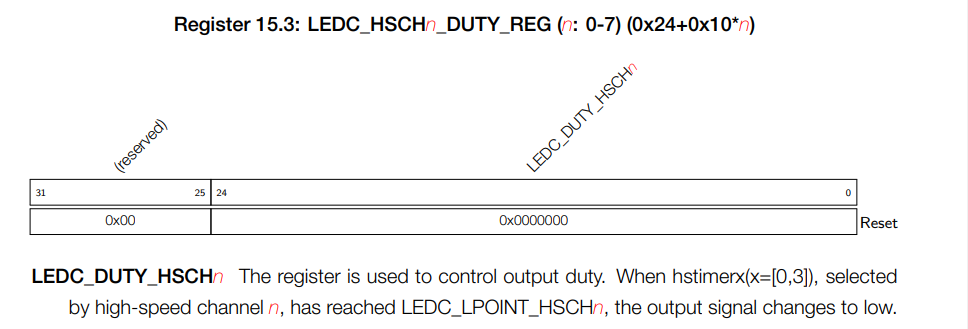
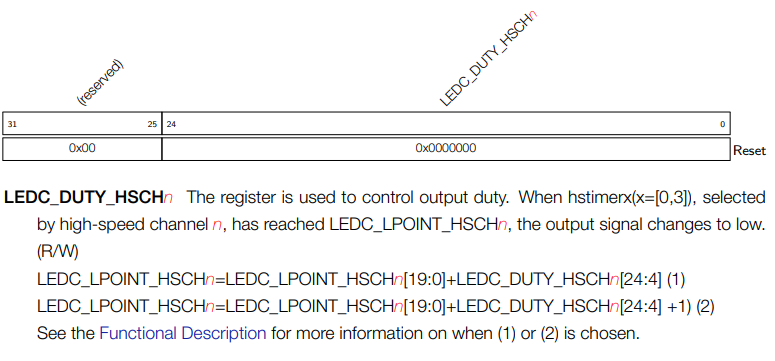
Finalising the content... do I still have time for slides....

Changed region(s): [[0.0, 0.0304, 0.991, 0.9726], [0.1239, 0.152, 0.1548, 0.2432]]

diff --git a/README.md b/README.md
@@ -287,16 +287,147 @@ If software wants to change the behaviour of the PWM, such as the duty cycle, th
 
 Let's play with the PWM hardware to see if we can get it to do stuff without using too many Arduino API calls.
 
+I will however use the following Arduino setup code to connect a hardware PWM channel to a GPIO pin. We could do this with low-level register reads and writes, but we would get bogged down in the details, so for simplicity lets leave the setup Ardunio API based.
+
+```C
+const unsigned int pwmPin = 15;
+const unsigned int freq = 5000;   
+const unsigned int pwmChannel = 0;
+const unsigned int resolution = 8;
+
+void setup() {
+  ledcSetup(pwmChannel, freq, resolution);
+  ledcAttachPin(pwmPin, pwmChannel);
+}
+
+void loop() {
+
+}
+```
+
+This code is doing the following:
+
+* Sets up the PWM Channel 0 ``pwmChannel`` timer so that it has a resolution of 8-bits. This means that the we are telling the timer in the PWM hardware only to use the bottom 8-bits of its counter, remember that the maximum is 20 bits. The counter will count up to 256 and then wrap around.
+* Sets the frequency of the timer to be 5KHz ``freq = 5000;``, this sets up the clock-divider so that the counter counts at this frequency.
+* Attaches the PWM Channel 0 to GPIO pin 15. This configures the internal routing logic in the I/O to connect the output of the PWM to pin 15.
+
+Now let's connect a logic analyser to GPIO pin 15 and see what we get at the output!
+
+![](imgs/pwm_nada.png)
+
+Not a lot. The reason is because we have not set up the thresholds ``lpoint`` and ``hpoint`` that determine at what timer counter value we should set the output high or not. By default the ``lpoint`` and ``hpoint`` are set to 0. If we look at Figure 88 in the TRM (or the cutout above) we can see that this will mean that ``sig_out`` is always low.
+
+What we are going to do now, is change the position of ``lpoint``. If we increase it a bit then the signal will be on a little bit longer. Remember that we have configured out timer to be 8-bits, this means that it is counting up to 256, so if we set the ``lpoint`` to 128 then we will have a 50% duty-cycle as we will be switching halfway through the timer's counting.
+
+To set the registers for the ``lpoint`` threshold we could use the Arduino function ``ledcWrite(pwmChannel, value);`` where value is the position in the 8-bit number that we want to set the threshold at. However, let's try and use the underlying hardware registers instead.
+
+![](imgs/duty_cycle_address.png)
+
+The main register for setting the ``lpoint`` of Channel 0 is ``LEDC_HSHC0_DUTY_REG`` which has the memory-mapped address: ``0x3FF59008``
+
+Looking at the description for this register we get the following:
+
 ![](imgs/pwm_duty_reg.png)
 
-__Configuring the PWM with Arduino code__
+We can see that to set the ``lpoint`` (``LEDC_LPOINT_HSCH0``) we need to write to the ``LEDC_DUTY_HSCH0`` portion of this register, specifically bits ``24 - 4``. The bottom 4 bits are for fine adjustment of the PWM signal, which we wont worry about here. So, to change the LPOINT we can add a write to this register in our code above within the body of ``loop()``.
 
-__Measuring the PWM (Nyquist)__
+```C
+const unsigned int pwmPin = 15;
+const unsigned int freq = 5000;   
+const unsigned int pwmChannel = 0;
+const unsigned int resolution = 8;
 
+void setup() {
+  ledcSetup(pwmChannel, freq, resolution);
+  ledcAttachPin(pwmPin, pwmChannel);
+}
 
-### PWM as a communication channel
+unsigned int * LEDC_HSCH0_DUTY_REG = (unsigned int *)(0x3FF59008);
 
-__Servo motor control__ (Gumball machine?   yes?.... yes)
+void loop() {
+        for(int i=0; i<256; i++) {
+                *LEDC_HSCH0_DUTY_REG = (i << 4); 
 
-## General Timer Hardware
+                delayMicroseconds(100);
+        }
+}
+```
+
+This code will every microsecond increase the value of the ``lpoint`` with the line ``*LEDC_HSCH0_DUTY_REG = (i << 4);``. Notice the shift to the left 4 places as we are using bits ``24 - 4``. 
+
+However, there are a few more registers that we need to set before we can get this to work. 
+
+* We need to set a bit to enable the output
+* We need to set a start bit to load in the change we made to the ``LEDC_HSHC0_DUTY_REG`` above
+
+To do this we need to configure two control registers of the PWM hardware: ``LEDC_HSCH0_CONF0_REG`` and ``LEDC_HSHC0_CONF1_REG``. 
+
+![](imgs/Conf0.png)
+
+To enable the output we must set bit 2 of ``LEDC_HSCH0_CONF0_REG``, we can do this once outside the loop. 
+
+```C
+const unsigned int pwmPin = 15;
+const unsigned int freq = 5000;   
+const unsigned int pwmChannel = 0;
+const unsigned int resolution = 8;
+
+void setup() {
+  ledcSetup(pwmChannel, freq, resolution);
+  ledcAttachPin(pwmPin, pwmChannel);
+}
+
+unsigned int * LEDC_HSCH0_DUTY_REG = (unsigned int *)(0x3FF59008);
+unsigned int * LEDC_HSCH0_CONF0_REG = (unsigned int *)(0x3FF59000);
+
+void loop() {
+        *LEDC_HSCH0_CONF0_REG = (1 << 2);
+        for(int i=0; i<256; i++) {
+                *LEDC_HSCH0_DUTY_REG = (i << 4); 
+
+                delayMicroseconds(100);
+        }
+}
+```
+
+Notice the ``(1 << 2)`` to shift the binary value ``...00001`` by two places to the left to get ``...00100`` to set just bit 2.
+
+![](imgs/Conf1.png)
+
+Finally, every time we change the configuration of the PWM we need to set an update bit that applies the changes we have made, in this case this is bit 31 of of register ``LEDC_HSCH0_CONF1_REG``
+
+```C
+const unsigned int pwmPin = 15;
+const unsigned int freq = 5000;   
+const unsigned int pwmChannel = 0;
+const unsigned int resolution = 8;
+
+void setup() {
+  ledcSetup(pwmChannel, freq, resolution);
+  ledcAttachPin(pwmPin, pwmChannel);
+}
+
+unsigned int * LEDC_HSCH0_DUTY_REG = (unsigned int *)(0x3FF59008);
+unsigned int * LEDC_HSCH0_CONF0_REG = (unsigned int *)(0x3FF59000);
+unsigned int * LEDC_HSCH0_CONF1_REG = (unsigned int *)(0x3FF5900C);
+
+void loop() {
+        *LEDC_HSCH0_CONF0_REG = (1 << 2);
+        for(int i=0; i<256; i++) {
+                *LEDC_HSCH0_DUTY_REG = (i << 4); 
+                *LEDC_HSCH0_CONF1_REG = (1 << 31); 
+                delayMicroseconds(100);
+        }
+}
+```
+
+Using our logic analyser we can see the following output at pin 15.
+
+![](imgs/pwm_output.png)
+
+Which is what we expect, we can see the length of time the signal is spent high increasing as we increase the ``lpoint`` threshold by periodically writing to the appropriate hardware registers.
+
+Then finally to demonstrate that this is really simulating an analogue voltage, we can hook up an LED to pin 15 and watch it fade!
+
+![](imgs/led_fade.gif)
 
